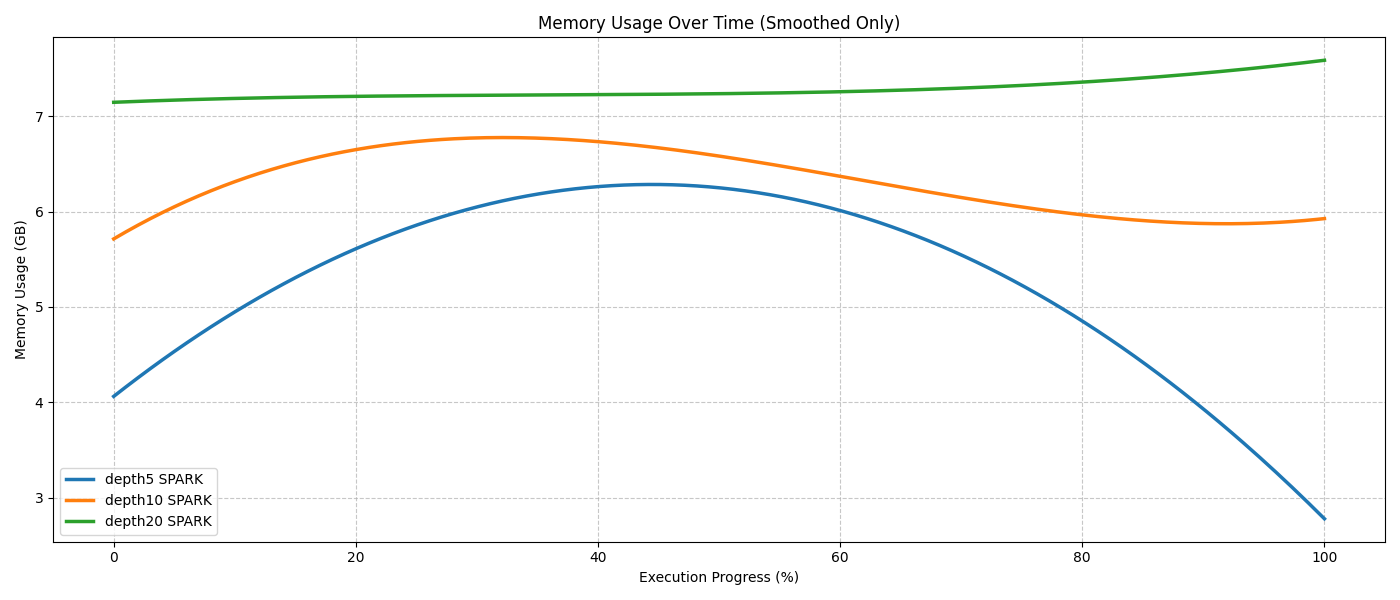
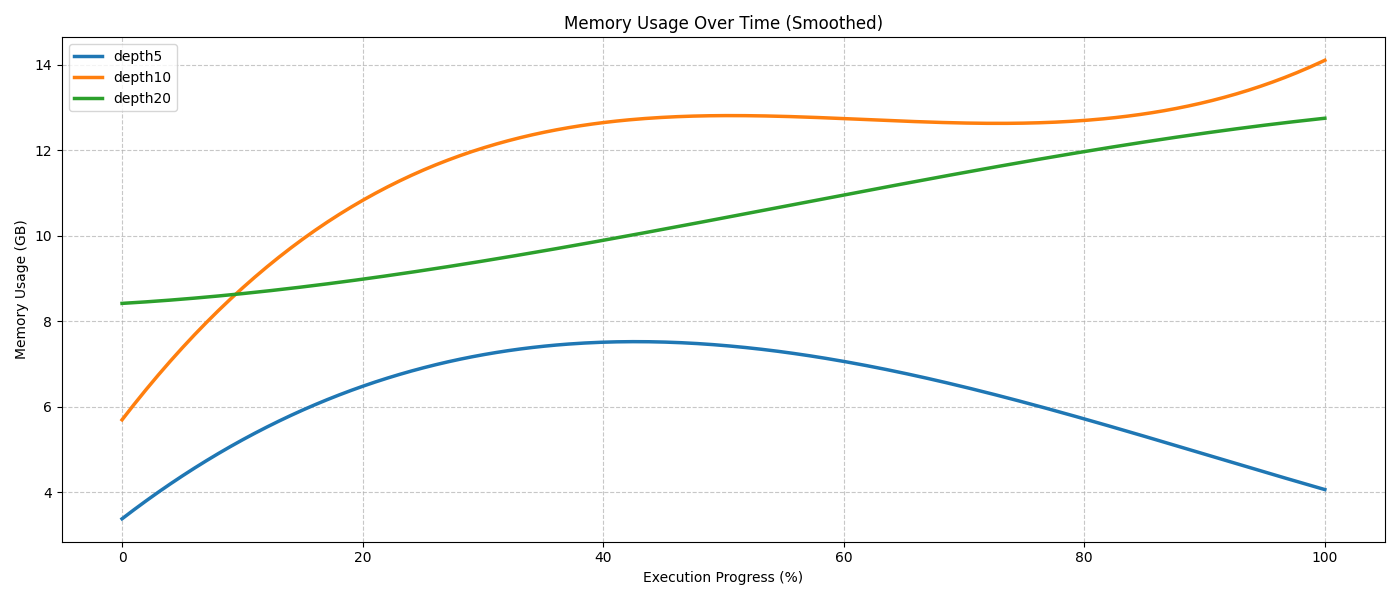
adding new perfamance data grouped

diff --git a/OA-analysis-report/perfomanceAnalysis/perfomanceAnalysis.py b/OA-analysis-report/perfomanceAnalysis/perfomanceAnalysis.py
@@ -396,7 +396,7 @@ class PerformanceAnalyzer:
         """Extract a human-readable label from a path.
 
         E.g. 'analysisReport/depth5CHA/perfomanceData/perfomanceReport'
-             -> 'depth5 CHA'
+             -> 'depth5'
         Looks for a path component matching depthN<ALGO> (case-insensitive).
         Falls back to the last meaningful path component.
         """
@@ -406,7 +406,7 @@ class PerformanceAnalyzer:
         for part in parts:
             m = re.match(r"(depth\d+)([a-zA-Z]+)", part, re.IGNORECASE)
             if m:
-                return f"{m.group(1)} {m.group(2).upper()}"
+                return m.group(1)
         return next((p for p in reversed(parts) if p), path)
 
     def analyze_subset_non_timeouts(self, paths):
@@ -531,6 +531,17 @@ class PerformanceAnalyzer:
                 print(f"  ({'+' if pct >= 0 else ''}{pct:.1f}%)")
             else:
                 print()
+            
+            # Add total execution time, mean CPU, and mean Memory from resource data
+            if label in resource_series:
+                res_df = resource_series[label]
+                if not res_df.empty:
+                    total_time = res_df["Time_Sec"].max() if "Time_Sec" in res_df.columns else 0
+                    mean_cpu = res_df["CPU_Percent_Total"].mean() if "CPU_Percent_Total" in res_df.columns else 0
+                    mean_memory = res_df["Memory_GB"].mean() if "Memory_GB" in res_df.columns else 0
+                    print(f"    Total execution time: {total_time:.2f}s")
+                    print(f"    Mean CPU: {mean_cpu:.2f}%")
+                    print(f"    Mean Memory: {mean_memory:.4f}GB")
 
             previous_avg = avg
             previous_worst10 = w10_avg
@@ -695,7 +706,7 @@ class PerformanceAnalyzer:
         self.visualizer.plot_grouped_smoothed_timeseries(
             series_list=_series(resource_series, "CPU_Percent_Total"),
             labels=labels,
-            title="CPU Usage Over Time (Smoothed Only)",
+            title="CPU Usage Over Time (Smoothed)",
             xlabel="Time (seconds)",
             ylabel="CPU Usage (%)",
             filename=os.path.join(output_path, "grouped_cpu_smoothed_only.png"),
@@ -709,7 +720,7 @@ class PerformanceAnalyzer:
         self.visualizer.plot_grouped_smoothed_timeseries(
             series_list=_series(resource_series, "Memory_GB"),
             labels=labels,
-            title="Memory Usage Over Time (Smoothed Only)",
+            title="Memory Usage Over Time (Smoothed)",
             xlabel="Time (seconds)",
             ylabel="Memory Usage (GB)",
             filename=os.path.join(output_path, "grouped_memory_smoothed_only.png"),
@@ -774,7 +785,7 @@ class PerformanceAnalyzer:
             df=self.perf_resource,
             x_col="Time_Sec",
             y_col="CPU_Percent_Total",
-            title="CPU Usage Over Time (Smoothed Only)",
+            title="CPU Usage Over Time (Smoothed)",
             xlabel="Time (seconds)",
             ylabel="CPU Usage (%)",
             filename=os.path.join(self.output_dir, "performance_cpu_smoothed_only.png"),
@@ -785,7 +796,7 @@ class PerformanceAnalyzer:
             df=self.perf_resource,
             x_col="Time_Sec",
             y_col="Memory_GB",
-            title="Memory Usage Over Time (Smoothed Only)",
+            title="Memory Usage Over Time (Smoothed)",
             xlabel="Time (seconds)",
             ylabel="Memory Usage (GB)",
             filename=os.path.join(
